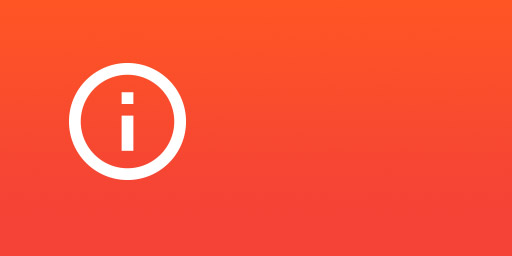
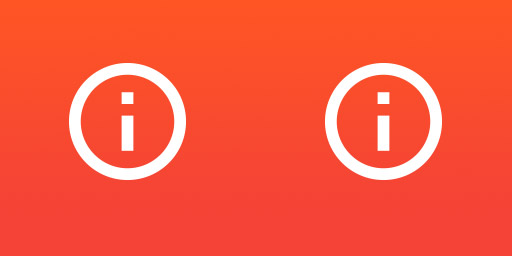
fixed visiblie bug

Changed region(s): [[0.625, 0.25, 0.875, 0.7188], [0.7188, 0.4375, 0.7812, 0.5938], [0.7188, 0.3438, 0.7812, 0.4062]]

diff --git a/webvr-5/fire/scene3.html b/webvr-5/fire/scene3.html
@@ -31,15 +31,29 @@
         <a-assets>
            
              <a-mixin id="h1" billboard  text="width: 100; align:center; lineHeight: 5; letterSpacing: 5; color: white;" ></a-mixin>
-             <a-mixin id="h2" billboard  text="width: 100; align:center; lineHeight: 5; letterSpacing: 5; color: black;" ></a-mixin>
+             <a-mixin id="h2" billboard  text="width: 100; align:center; lineHeight: 5; letterSpacing: 5;  color: black;" ></a-mixin>
             
             
-             <a-mixin id="objectTitle" billboard  text="width: 100; align:center; lineHeight: 5; letterSpacing: 5; color: white;" scale=".3 .3 .3"  position="0 2 0" ></a-mixin>
-             <a-mixin id="objectTitleHover" billboard  text="width: 100; align:center; lineHeight: 5; letterSpacing: 5; color: black;" scale=".4 .4 .4"  position="0 2 0" ></a-mixin>
+             <a-mixin id="objectTitle" billboard  
+                      text="width: 100; align:center; lineHeight: 5; letterSpacing: 5; color: white;" 
+                      scale=".3 .3 .3"  
+                      position="0 2 0" 
+                      >
+            </a-mixin>
+             <a-mixin id="objectTitleHover" billboard  
+                      text="width: 100; align:center; lineHeight: 50; height: 100; letterSpacing: 50; color: #333;" 
+                      scale=".4 .4 .4"  
+                      position="0 2 0" 
+                      >
+            </a-mixin>
             
             
-            <a-mixin id="infoPlane" billboard geometry="primitive:plane" height="4" width="4"transparent="true" scale= "40 40 1" position=" 0 0 -1" material="shader: flat" visible="false"></a-mixin>
-            <a-mixin id="infoSphere" billboard geometry="primitive:sphere" radius="1" transparent="true" scale= "1 1 1" position=" 0 0 0" material="shader: flat" rotation="0 0 0"
+            <a-mixin id="infoPlane" billboard geometry="primitive:plane" height="2" width="4"transparent="true" scale= "35 35 1" position=" 0 0 -1" material="shader: flat" visible="false"></a-mixin>
+            <a-mixin id="infoSphere" geometry="primitive:sphere" radius="1" transparent="true" scale= "1 1 1" position=" 0 0 0" material="shader: flat" rotation="0 0 0"
+                                  update-raycaster="#cursor"> 
+               
+            </a-mixin>
+            <a-mixin id="zoomInfo" geometry="primitive:sphere" radius="1" transparent="true" scale= "1 1 1" position=" 0 0 0" material="shader: flat" rotation="0 0 0"
                                   update-raycaster="#cursor"> 
                
             </a-mixin>
@@ -64,38 +78,76 @@
                 </a-plane>
             </script>
             
-             
             <script id="infoPoint" type="text/html" >
+
                 <a-entity position="${point}">
-                    <a-entity 
-                              class="link"
-                              mixin="infoSphere"
-                              material="src:${icon};" 
-                              animation="property: rotation; startEvents:  from: 0.1 0.1 0.1; to: 1 1 1; dur: 150" 
-                     
-                              event-set__1="_event: mouseenter; material.src:${img}; mixin:infoPlane; visible:${viewable}"
-                              event-set__2="_event: mouseleave; material.src:${icon}; mixin:infoSphere;  visible:${viewable}"
-                              sound="on: click; src: #click-sound" 
-                              >
-                </a-entity>
+                    
                     <a-text 
                               mixin="objectTitle"  
                               class="link"
                               text="value: ${ title }" 
-                              event-set__1="_event: mouseenter; mixin:h2;"
-                              event-set__2="_event: mouseleave; mixin:h1;">
-                </a-text>
+                              event-set__1="_event: mouseenter; mixin:objectTitleHover; value: ${ title + info }" 
+                              event-set__2="_event: mouseleave; mixin:objectTitle; value: ${ title }" >
+                    </a-text>
+                    <a-entity position="0 -.5 0">
+                        <a-entity  class="link"
+                                    mixin="infoSphere"
+                                    material="src:${icon};" > 
+                        </a-entity>
+                         <a-animation attribute="rotation"
+                                      dur="5000"
+                                      fill="forwards"
+                                      to="0 360 0"
+                                      easing="linear"
+                                      repeat="indefinite"></a-animation>
+                       
+                    </a-entity>
+            </script>   
+            
+            <script id="zoomPoint" type="text/html" >
+                <a-entity position="${point}">
+                    
+                    <a-text 
+                              mixin="objectTitle"  
+                              class="link"
+                              text="value: ${ title }" 
+                              event-set__1="_event: mouseenter; mixin:objectTitleHover; value: ${ title + info }" 
+                              event-set__2="_event: mouseleave; mixin:objectTitle; value: ${ title }" >
+                    </a-text>
+                    <a-entity position="0 -1 0">
+                         <a-entity 
+                                   billboard
+                                    class="link"
+                                    mixin="zoomInfo"
+                                    material="src:${icon};" 
+                                    transparent="true"
+                                    event-set__1="_event: mouseenter; material.src:${img}; mixin:infoPlane; visible:${viewable}"
+                                    event-set__2="_event: mouseleave; material.src:${icon}; mixin:infoZoom; visible:true"
+                                    sound="on: click; src: #click-sound" 
+                                > 
+                        </a-entity>
+                         
+                        
+                    
+                    
+                    </a-entity>
             </script>
-
+            
+           
+            
         </a-assets>
 
-        <a-entity template="src: #infoPoint" data-point="-13 0 25" data-title="Vluchtroute" data-info="ipsum" data-img="../fire/images/escaperoute.png" data-icon="../fire/images/inc-info.jpg" data-viewable="true"></a-entity>
+       
         
-        <a-entity template="src: #infoPoint" data-point="30 -8 23" data-title="Brandalarm" data-info="\n Lorem ipsum" data-img="../fire/images/white.jpg" data-icon="../fire/images/inc-info.jpg" data-viewable="false"></a-entity>
+        <a-entity template="src: #zoomPoint" data-point="-13 0 25" data-title="Vluchtroute" data-info="\n zoek hier de dichtsbijzijnde uitgang." data-img="../fire/images/escaperoute.png" data-icon="../fire/images/inc-zoom.jpg"  data-viewable="true"></a-entity>
         
-        <a-entity template="src: #infoPoint" data-point="35 -32 23" data-title="Brandslang" data-info="\n test imfasodfsad 1" data-img="../fire/images/white.jpg" data-icon="../fire/images/inc-info.jpg" data-viewable="false"></a-entity>
+            <a-entity template="src: #infoPoint" data-point="30 -8 23" data-title="Brandalarm" data-info="" data-img="../fire/images/escaperoute.png" data-icon="../fire/images/inc-info.jpg" data-viewable="false"></a-entity>
         
-        <a-entity template="src: #infoPoint" data-point="2 2 33" data-title="Nooduitgang" data-info=" \n asdfasdf dsa2" data-img="../fire/images/white.jpg" data-icon="../fire/images/inc-info.jpg" data-viewable="false"></a-entity>
+            <a-entity template="src: #infoPoint" data-point="35 -32 23" data-title="Brandslang" data-info="\n meer info" data-img="../fire/images/escaperoute.png" data-icon="../fire/images/inc-info.jpg" data-viewable="false"></a-entity>
+        
+            <a-entity template="src: #infoPoint" data-point="3 2.5 30" data-title="Nooduitgang" data-info="\n meer info" data-img="../fire/images/escaperoute.png" data-icon="../fire/images/inc-info.jpg" data-viewable="false"></a-entity>
+        
+        
         
         
         <a-sky radius="100" rotation="0 -203 0" crossorigin="anonymous" src="../fire/images/fireinstruction-3.jpg"></a-sky>
@@ -113,7 +165,7 @@
        
         <a-entity pivot="0 0 0" billboard position="0 -5 -2" rotation="0 0 0" template="src: #navItem" data-text="Home" data-link="location.href='index.html'"></a-entity>
         
-        <a-entity  rotation="0 0 0" camera look-controls wasd-controls>
+        <a-entity  rotation="0 180 0" camera look-controls wasd-controls>
             <a-cursor id="cursor" 
                       animation__click="property: scale; startEvents: click; from: 0.1 0.1 0.1; to: 1 1 1; dur: 150" 
                       animation__fusing="property: fusing; startEvents: fusing; from: 1 1 1; to: 0.1 0.1 0.1; dur: 1500" 

diff --git a/webvr-5/fire/scene1.html b/webvr-5/fire/scene1.html
@@ -66,26 +66,30 @@
             
              
             <script id="infoPoint" type="text/html" >
+
                 <a-entity position="${point}">
-                    <a-entity 
-                              class="link"
-                              mixin="infoSphere"
-                              material="src:${icon};" 
-                              animation="property: rotation; startEvents:  from: 0.1 0.1 0.1; to: 1 1 1; dur: 150" 
-                     
-                              event-set__1="_event: mouseenter; material.src:${img}; mixin:infoPlane; visible:${viewable}"
-                              event-set__2="_event: mouseleave; material.src:${icon}; mixin:infoSphere;  visible:${viewable}"
-                              sound="on: click; src: #click-sound" 
-                              >
-                </a-entity>
+                    
                     <a-text 
                               mixin="objectTitle"  
                               class="link"
                               text="value: ${ title }" 
-                              event-set__1="_event: mouseenter; mixin:h2;"
-                              event-set__2="_event: mouseleave; mixin:h1;">
-                </a-text>
-            </script>
+                              event-set__1="_event: mouseenter; mixin:objectTitleHover; value: ${ title + info }" 
+                              event-set__2="_event: mouseleave; mixin:objectTitle; value: ${ title }" >
+                    </a-text>
+                    <a-entity position="0 -.5 0">
+                        <a-entity  class="link"
+                                    mixin="infoSphere"
+                                    material="src:${icon};" > 
+                        </a-entity>
+                         <a-animation attribute="rotation"
+                                      dur="5000"
+                                      fill="forwards"
+                                      to="0 360 0"
+                                      easing="linear"
+                                      repeat="indefinite"></a-animation>
+                       
+                    </a-entity>
+            </script> 
 
         </a-assets>
         

diff --git a/webvr-5/fire/scene2.html b/webvr-5/fire/scene2.html
@@ -66,26 +66,30 @@
             
              
             <script id="infoPoint" type="text/html" >
+
                 <a-entity position="${point}">
-                    <a-entity 
-                              class="link"
-                              mixin="infoSphere"
-                              material="src:${icon};" 
-                              animation="property: rotation; startEvents:  from: 0.1 0.1 0.1; to: 1 1 1; dur: 150" 
-                     
-                              event-set__1="_event: mouseenter; material.src:${img}; mixin:infoPlane; visible:${viewable}"
-                              event-set__2="_event: mouseleave; material.src:${icon}; mixin:infoSphere;  visible:${viewable}"
-                              sound="on: click; src: #click-sound" 
-                              >
-                </a-entity>
+                    
                     <a-text 
                               mixin="objectTitle"  
                               class="link"
                               text="value: ${ title }" 
-                              event-set__1="_event: mouseenter; mixin:h2;"
-                              event-set__2="_event: mouseleave; mixin:h1;">
-                </a-text>
-            </script>
+                              event-set__1="_event: mouseenter; mixin:objectTitleHover; value: ${ title + info }" 
+                              event-set__2="_event: mouseleave; mixin:objectTitle; value: ${ title }" >
+                    </a-text>
+                    <a-entity position="0 -.5 0">
+                        <a-entity  class="link"
+                                    mixin="infoSphere"
+                                    material="src:${icon};" > 
+                        </a-entity>
+                         <a-animation attribute="rotation"
+                                      dur="5000"
+                                      fill="forwards"
+                                      to="0 360 0"
+                                      easing="linear"
+                                      repeat="indefinite"></a-animation>
+                       
+                    </a-entity>
+            </script> 
 
         </a-assets>
 
